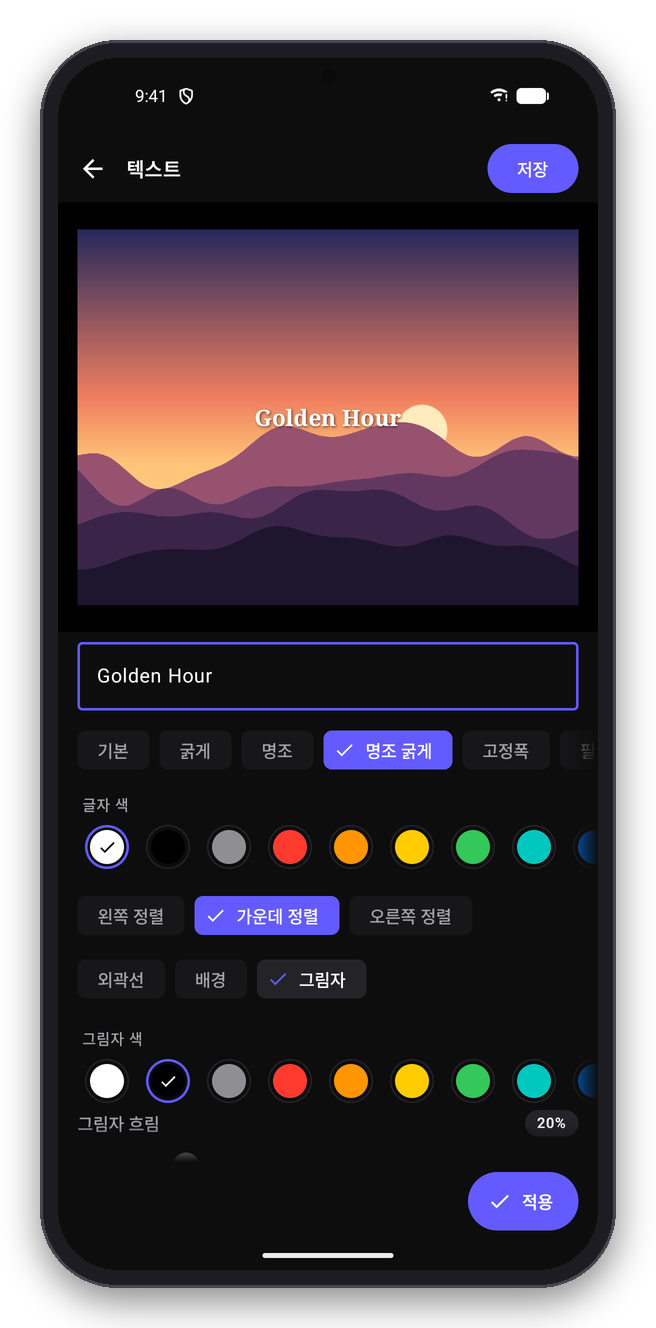
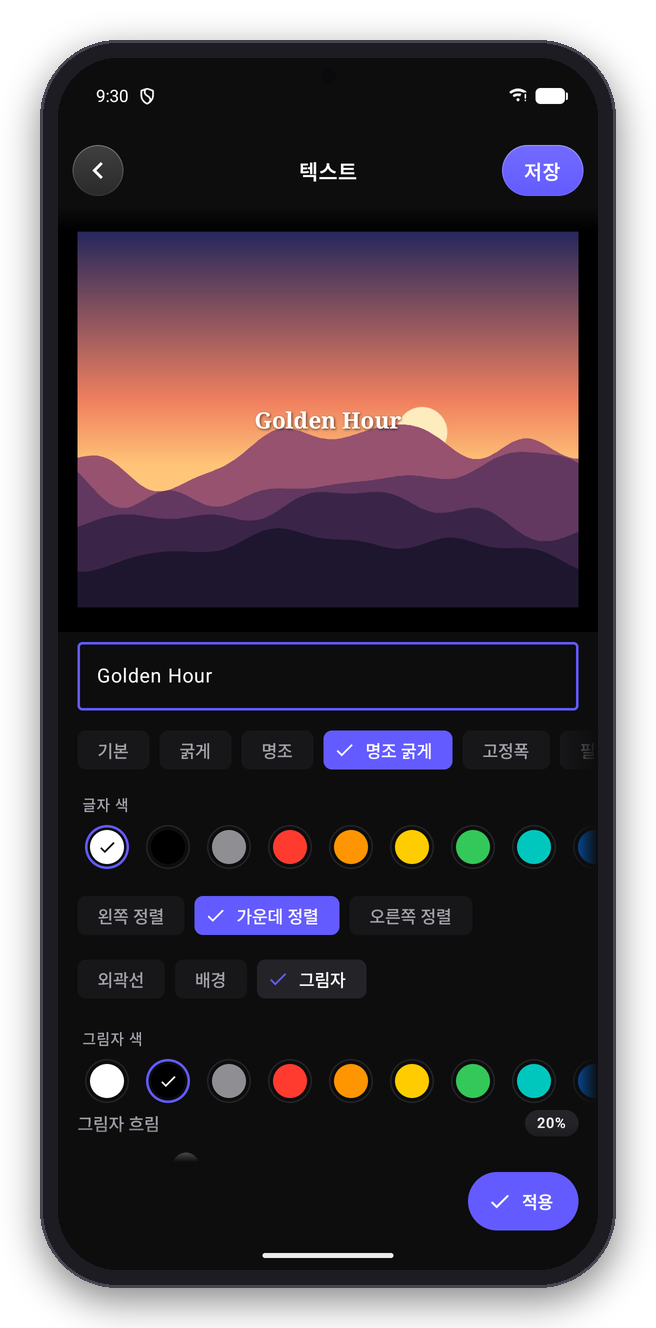
docs: README에 문서 스캔·갤러리 소개와 새 화면 이미지 반영

diff --git a/README.md b/README.md
@@ -12,30 +12,33 @@
 </p>
 
 **FrameKit**은 Android 앱에 사진·영상·음성 편집 기능을 더하는 SDK입니다.
-자르기·필터·텍스트부터 클립 편집, 녹음, 워터마크까지 완성된 편집 화면을 앱에 그대로 붙여 쓸 수 있고, 사용자가 편집을 마치면 결과 파일을 받아 바로 활용할 수 있습니다. 원본 파일은 변경되지 않습니다.
+갤러리에서 고르기부터 자르기·필터·텍스트, 클립 편집, 녹음, 문서 스캔과 PDF 만들기까지 완성된 화면을 앱에 그대로 붙여 쓸 수 있고, 사용자가 마치면 결과 파일을 받아 바로 활용할 수 있습니다. 원본 파일은 변경되지 않습니다.
 
 ![FrameKit](docs/images/hero.png)
 
 ## 기능
 
-- **사진**: 자르기·회전, 보정·필터, 텍스트·스티커·그리기, 모자이크, 배경 제거, 여러 장 편집, 문서 스캔(원근 보정·여러 쪽 한 번에), PDF 저장
+- **사진**: 자르기·회전, 보정·필터, 텍스트·스티커·그리기, 모자이크, 배경 제거, 여러 장 편집
+- **문서 스캔·PDF**: 문서 테두리 자동 인식과 원근 보정, 컬러·흑백 스캔, 여러 쪽 한 번에 스캔, 글자 검색이 되는 PDF
 - **영상**: 여러 클립 이어 붙이기·자르기, 보정·필터·속도, 배경 음악·음성, 텍스트·스티커, MP4 저장
 - **움직이는 이미지**: 사진으로 슬라이드쇼 만들기, GIF·WebP 편집, MP4·GIF·WebP 저장
 - **음성**: 녹음(탭·누르고 말하기), 소리 파일 편집, M4A 저장
 - **워터마크**: 사진·영상에 문구 워터마크(반복·대각선·띠 패턴, 수정 잠금)
-- **갤러리**: 앨범별 보기·선택 순서·크게 보기·개수/크기/길이 제한이 있는 사진·영상 고르기 화면
-- **그 밖에**: 촬영 후 바로 편집, 화면 없이 코드로 처리(headless), 앱 전용 필터·스티커·폰트, 테마 색상, 13개 언어
+- **갤러리**: 앨범·날짜별 보기, 고른 순서 표시, 크게 보기(확대·축소), 개수·크기·길이 제한. 권한이 없으면 시스템 사진 선택기로 대신
+- **그 밖에**: 촬영 후 바로 편집, 화면 없이 코드로 처리(headless), 앱 전용 필터·스티커·폰트, 테마 색상, 13개 언어, 폴드·태블릿 화면
 
 <table>
   <tr>
-    <td align="center" width="33%"><img src="docs/images/screen-photo.png" width="240" alt="사진 편집"><br><b>사진 편집</b><br>텍스트·필터·스티커</td>
-    <td align="center" width="33%"><img src="docs/images/screen-video.png" width="240" alt="영상 편집"><br><b>영상 편집</b><br>클립·음악·음성 줄</td>
-    <td align="center" width="33%"><img src="docs/images/screen-motion.png" width="240" alt="움직이는 이미지"><br><b>움직이는 이미지</b><br>사진으로 슬라이드쇼</td>
+    <td align="center" width="25%"><img src="docs/images/screen-photo.png" width="200" alt="사진 편집"><br><b>사진 편집</b><br>텍스트·필터·스티커</td>
+    <td align="center" width="25%"><img src="docs/images/screen-scan.png" width="200" alt="문서 스캔"><br><b>문서 스캔</b><br>원근 보정·여러 쪽 스캔</td>
+    <td align="center" width="25%"><img src="docs/images/screen-gallery.png" width="200" alt="갤러리"><br><b>갤러리</b><br>앨범·순서·크게 보기</td>
+    <td align="center" width="25%"><img src="docs/images/screen-video.png" width="200" alt="영상 편집"><br><b>영상 편집</b><br>클립·음악·음성 줄</td>
   </tr>
   <tr>
-    <td align="center"><img src="docs/images/screen-record.png" width="240" alt="녹음"><br><b>녹음</b><br>탭·누르고 말하기</td>
-    <td align="center"><img src="docs/images/screen-audio.png" width="240" alt="음성 편집"><br><b>음성 편집</b><br>파형·나누기·끼워 넣기</td>
-    <td align="center"><img src="docs/images/screen-watermark.png" width="240" alt="워터마크"><br><b>워터마크</b><br>한 곳·반복·대각선·띠</td>
+    <td align="center"><img src="docs/images/screen-motion.png" width="200" alt="움직이는 이미지"><br><b>움직이는 이미지</b><br>사진으로 슬라이드쇼</td>
+    <td align="center"><img src="docs/images/screen-record.png" width="200" alt="녹음"><br><b>녹음</b><br>탭·누르고 말하기</td>
+    <td align="center"><img src="docs/images/screen-audio.png" width="200" alt="음성 편집"><br><b>음성 편집</b><br>파형·나누기·끼워 넣기</td>
+    <td align="center"><img src="docs/images/screen-watermark.png" width="200" alt="워터마크"><br><b>워터마크</b><br>한 곳·반복·대각선·띠</td>
   </tr>
 </table>
 
@@ -52,7 +55,7 @@ dependencyResolutionManagement {
 
 // app/build.gradle.kts
 dependencies {
-    implementation("com.naurylab:framekit:1.0.0-alpha02")
+    implementation("com.naurylab:framekit:1.0.0-alpha03")
 }
 ```
 
@@ -124,12 +127,6 @@ editor.launch(FrameKitRequest(EditorInput.Multiple(uris.map(EditorInput::UriSour
 ### 자주 쓰는 설정
 
 ```kotlin
-// 여러 장을 A4 PDF 하나로
-FrameKitRequest(
-    EditorInput.Pick(MediaKind.IMAGE, maxItems = 20),
-    imageExport = ImageExportConfig(format = ImageFormat.PDF, pdf = PdfOptions(pageSize = PdfPageSize.A4)),
-)
-
 // 도구 제한, 저장 형식, 영상 길이, 테마
 FrameKitRequest(
     EditorInput.UriSource(uri),
@@ -156,6 +153,19 @@ FrameKitRequest(EditorInput.Pick(MediaKind.ANY), image = ImageEditorConfig(water
 val motion = registerForActivityResult(MotionEditorContract()) { result -> /* ... */ }
 motion.launch(MotionEditorRequest(EditorInput.Pick(MediaKind.IMAGE, maxItems = 20)))
 ```
+
+### 문서를 스캔해 PDF로
+
+```kotlin
+editor.launch(
+    FrameKitRequest(
+        EditorInput.Pick(MediaKind.IMAGE, maxItems = 20),
+        imageExport = ImageExportConfig(format = ImageFormat.PDF, pdf = PdfOptions(pageSize = PdfPageSize.A4)),
+    ),
+)
+```
+
+PDF로 저장할 때는 편집기 도구 맨 앞에 **문서 보정**이 나옵니다. 문서 테두리를 자동으로 찾아 반듯하게 펴고, 컬러·흑백 스캔을 고를 수 있으며, **모든 쪽 스캔**으로 여러 쪽을 한 번에 처리합니다. 테두리를 찾지 못한 쪽은 모서리를 직접 맞추면 됩니다. `framekit-ocr`을 추가하면 PDF에서 글자 검색·복사가 됩니다.
 
 ### 화면 없이 처리
 
@@ -215,7 +225,7 @@ picker.launch(MediaPickerRequest(MediaKind.ANY, maxItems = 10, maxFileSizeBytes 
 
 ## 문서
 
-- [연동 가이드](docs/integration.md): 편집기별 사용 예시, 결과·오류 처리, 움직이는 이미지·음성·워터마크
+- [연동 가이드](docs/integration.md): 편집기별 사용 예시, 결과·오류 처리, 움직이는 이미지·음성·워터마크·앱 안 갤러리
 - [설정](docs/configuration.md): 전체 옵션의 기본값과 범위
 - [화면 없이 처리](docs/headless.md)
 - [지원 형식](docs/supported-formats.md)

diff --git a/docs/integration.md b/docs/integration.md
@@ -6,9 +6,9 @@
 
 ```kotlin
 dependencies {
-    implementation("com.naurylab:framekit:1.0.0-alpha02")             // 사진·영상 모두
-    // implementation("com.naurylab:framekit-ui-image:1.0.0-alpha02") // 사진만 (Media3 없음)
-    // implementation("com.naurylab:framekit-ui-video:1.0.0-alpha02") // 영상만
+    implementation("com.naurylab:framekit:1.0.0-alpha03")             // 사진·영상 모두
+    // implementation("com.naurylab:framekit-ui-image:1.0.0-alpha03") // 사진만 (Media3 없음)
+    // implementation("com.naurylab:framekit-ui-video:1.0.0-alpha03") // 영상만
 }
 ```
 
@@ -375,7 +375,7 @@ audio.launch(AudioEditorRequest(EditorInput.UriSource(audioUri), export = AudioE
 `framekit-picker`는 시스템 사진 선택기 대신 쓸 수 있는 갤러리 화면입니다. 앨범별 보기, 고른 순서 번호, 크게 보기(확대·축소), 개수·파일 크기·영상 길이·형식 제한을 지원합니다. 통합 모듈(`framekit`)에 들어 있고, 개별 모듈만 쓴다면 따로 추가합니다.
 
 ```kotlin
-implementation("com.naurylab:framekit-picker:<버전>")
+implementation("com.naurylab:framekit-picker:1.0.0-alpha03")
 ```
 
 ### 단독으로 쓰기
@@ -452,7 +452,7 @@ implementation(project(":framekit-segmentation"))
 ## 글자 인식(OCR) 선택 모듈
 
 ```kotlin
-implementation("com.naurylab:framekit-ocr:1.0.0-alpha02")
+implementation("com.naurylab:framekit-ocr:1.0.0-alpha03")
 ```
 
 - 추가하면 PDF로 저장할 때 쪽마다 글자를 인식해 **보이지 않는 글자 레이어**를 겹칩니다. PDF 뷰어에서 검색·선택·복사가 되고, 이미지는 그대로 보입니다. `PdfOptions.recognizeText = false`로 끌 수 있습니다.

diff --git a/docs/release-notes.md b/docs/release-notes.md
@@ -1,6 +1,6 @@
 # Release Notes
 
-## 다음 버전
+## 1.0.0-alpha03
 
 ### 바뀜
 
